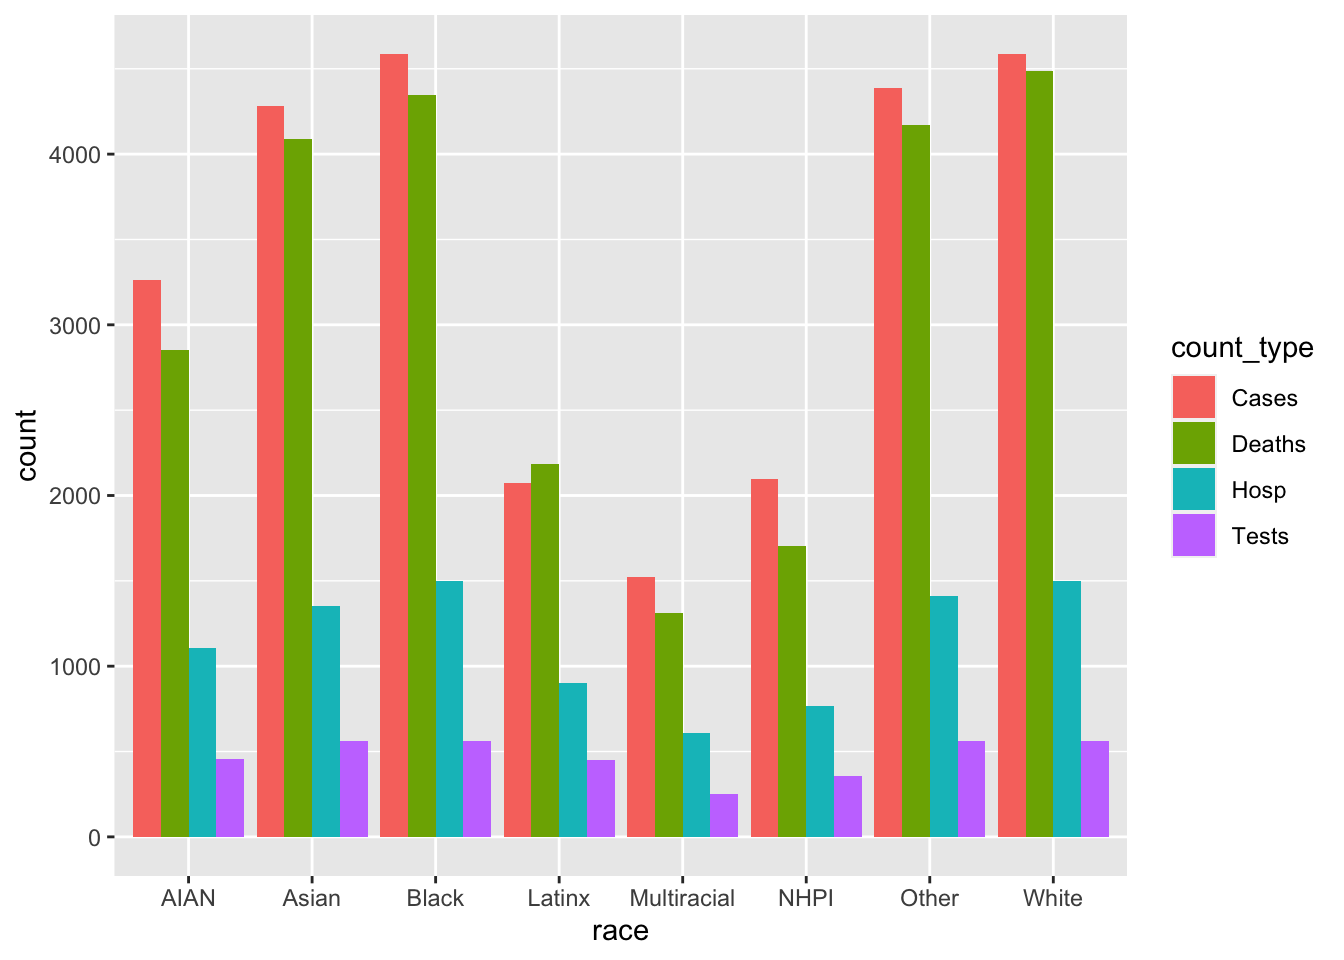
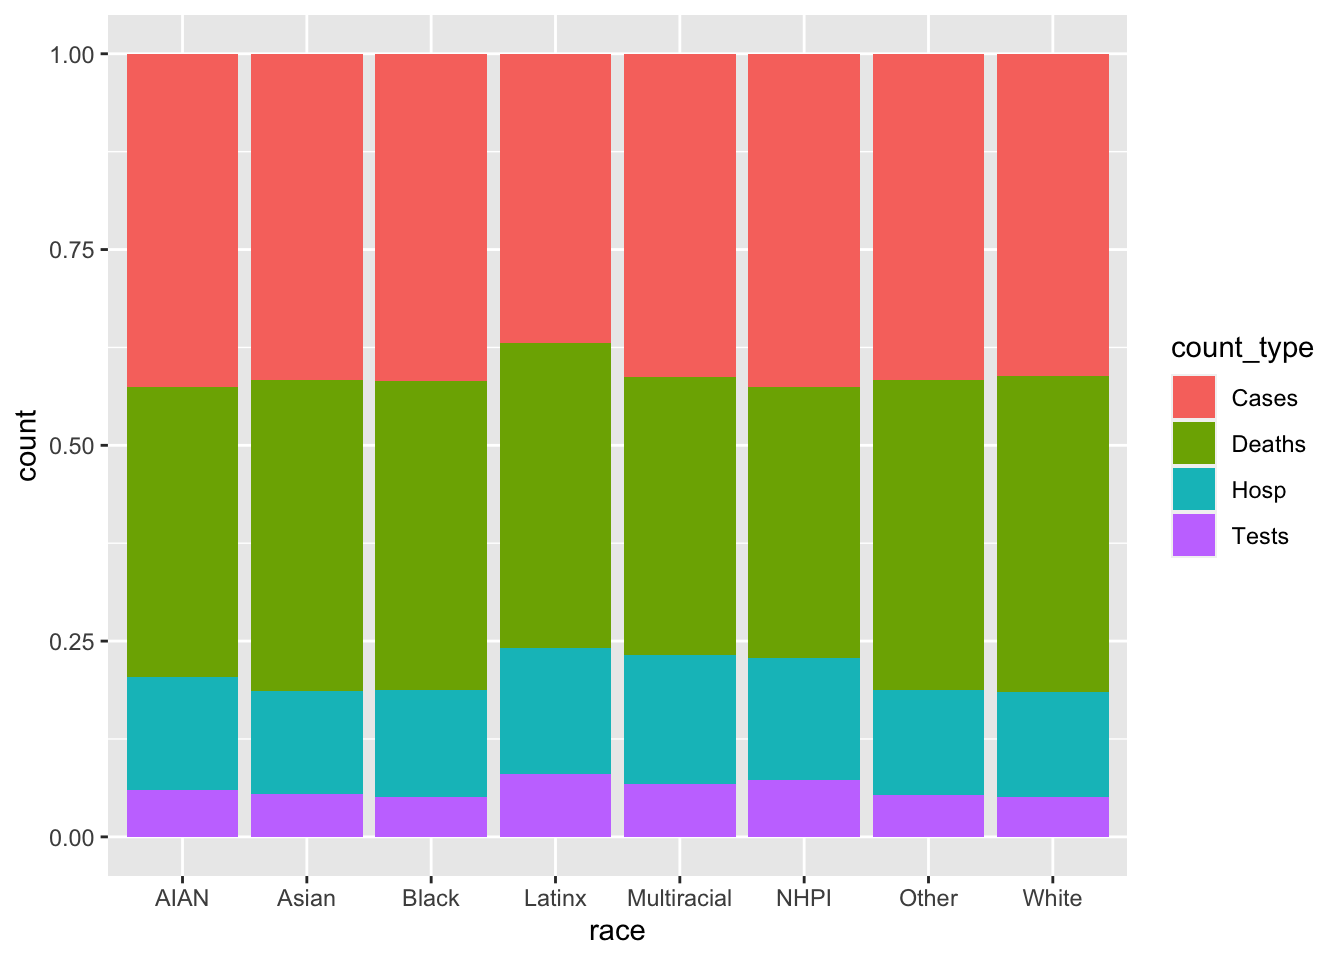
Submission 2 Week 2 Discussion Work 13SEP2023

diff --git a/Week_02_Covid_Vis.html b/Week_02_Covid_Vis.html
@@ -165,7 +165,7 @@ pre > code.sourceCode > span > a:first-child::before { text-decoration: underlin
 </ol>
 <div class="cell">
 <div class="sourceCode cell-code" id="cb11"><pre class="sourceCode r code-with-copy"><code class="sourceCode r"><span id="cb11-1"><a href="#cb11-1" aria-hidden="true" tabindex="-1"></a>x <span class="ot">&lt;-</span> <span class="fu">subset</span>(covid_data_long, race <span class="sc">!=</span> <span class="st">"Total"</span>)</span>
-<span id="cb11-2"><a href="#cb11-2" aria-hidden="true" tabindex="-1"></a><span class="fu">ggplot</span>(x, <span class="fu">aes</span>(<span class="at">x =</span> race, <span class="at">fill =</span> count_type)) <span class="sc">+</span> <span class="fu">geom_bar</span>(<span class="at">position =</span> <span class="st">"dodge"</span>)</span></code><button title="Copy to Clipboard" class="code-copy-button"><i class="bi"></i></button></pre></div>
+<span id="cb11-2"><a href="#cb11-2" aria-hidden="true" tabindex="-1"></a><span class="fu">ggplot</span>(x, <span class="fu">aes</span>(<span class="at">x =</span> race, <span class="at">fill =</span> count_type)) <span class="sc">+</span> <span class="fu">geom_bar</span>(<span class="at">position =</span> <span class="st">"fill"</span>)</span></code><button title="Copy to Clipboard" class="code-copy-button"><i class="bi"></i></button></pre></div>
 <div class="cell-output-display">
 <p><img src="Week_02_Covid_Vis_files/figure-html/unnamed-chunk-2-1.png" class="img-fluid" width="672"></p>
 </div>
@@ -179,7 +179,7 @@ pre > code.sourceCode > span > a:first-child::before { text-decoration: underlin
 <p><img src="Week_02_Covid_Vis_files/figure-html/unnamed-chunk-2-3.png" class="img-fluid" width="672"></p>
 </div>
 </div>
-<p>As I was interested in the relationship between race, and covid related deaths, cases, tests and hospitalizations, I wanted to create a plot that could encompass all five of these factors. I created two bar plots, one looking at race on the x axis with a fill of “count_type” and the other is reversed. It appears from these two graphs that the majority of the cases, deaths and hospitalizations occur in white and black populations. And I did not feel like I had enough resolution to evalute the tests metric so I isolated this metric and plotted it alone.</p>
+<p>As I was interested in the relationship between race, and covid related deaths, cases, tests and hospitalizations, I wanted to create a plot that could encompass all five of these factors. I created two bar plots, one looking at race on the x axis with a fill of “count_type” and the other is reversed. It appears from these two graphs that the majority of the cases, deaths and hospitalizations occur in white and black populations. And I did not feel like I had enough resolution to evaluate the tests metric so I isolated this metric and plotted it alone. In one graph I used position = fill to compare the metrics across bars, and in the other I used “dodge” as there were too many factors to yield a visually appeaing graph using the fill parameter.</p>
 <ol start="2" type="1">
 <li>Are there any conclusions you can draw?</li>
 </ol>
